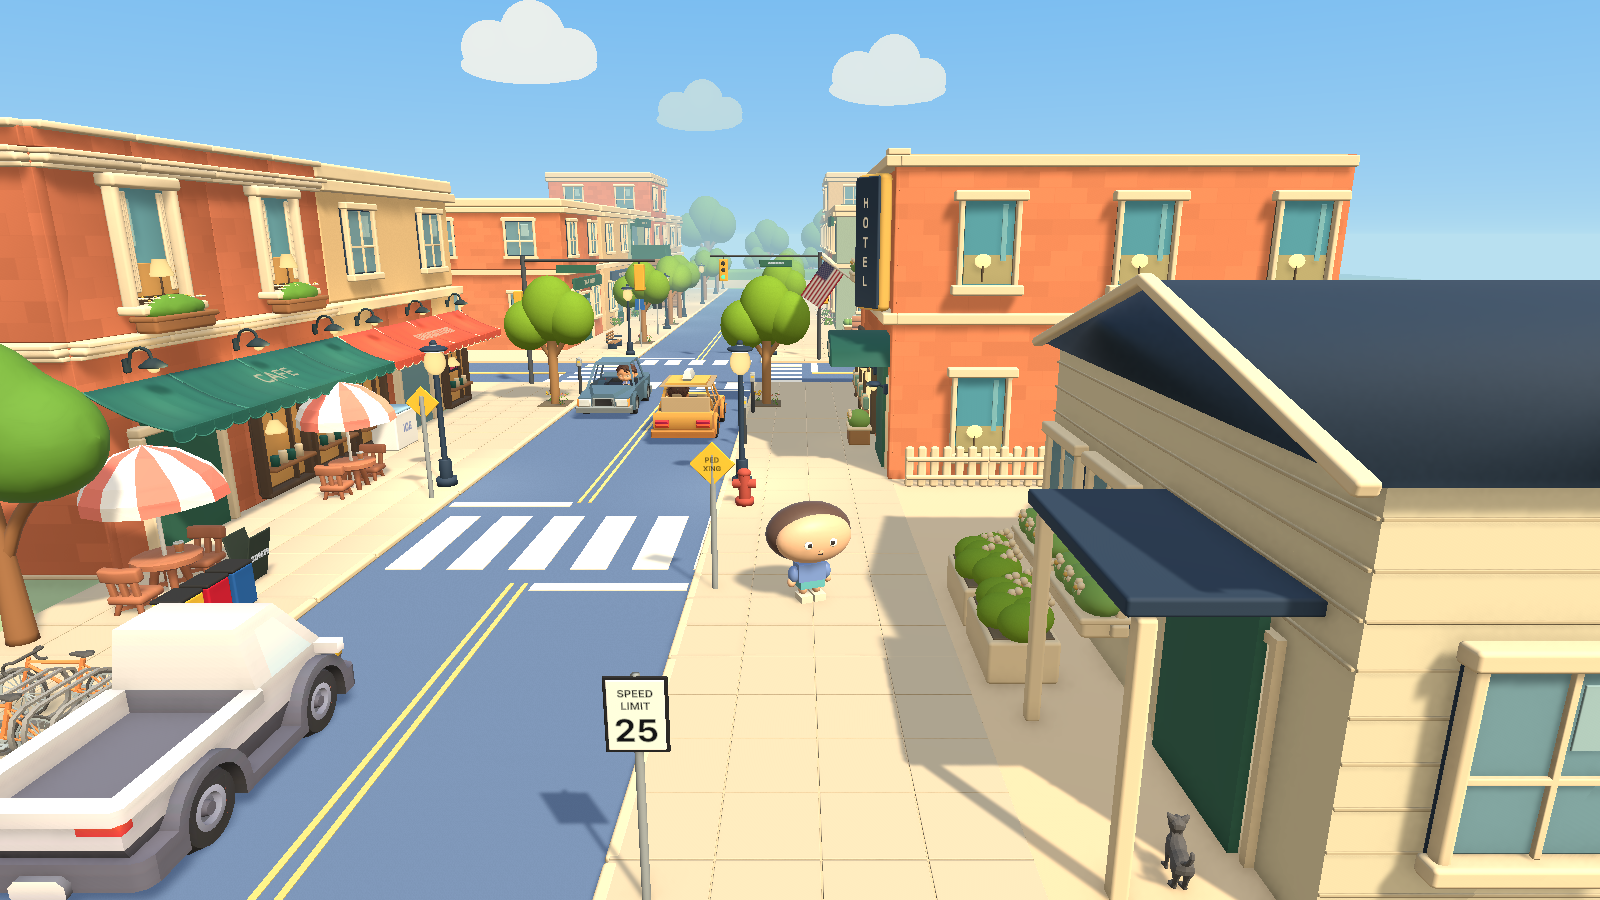
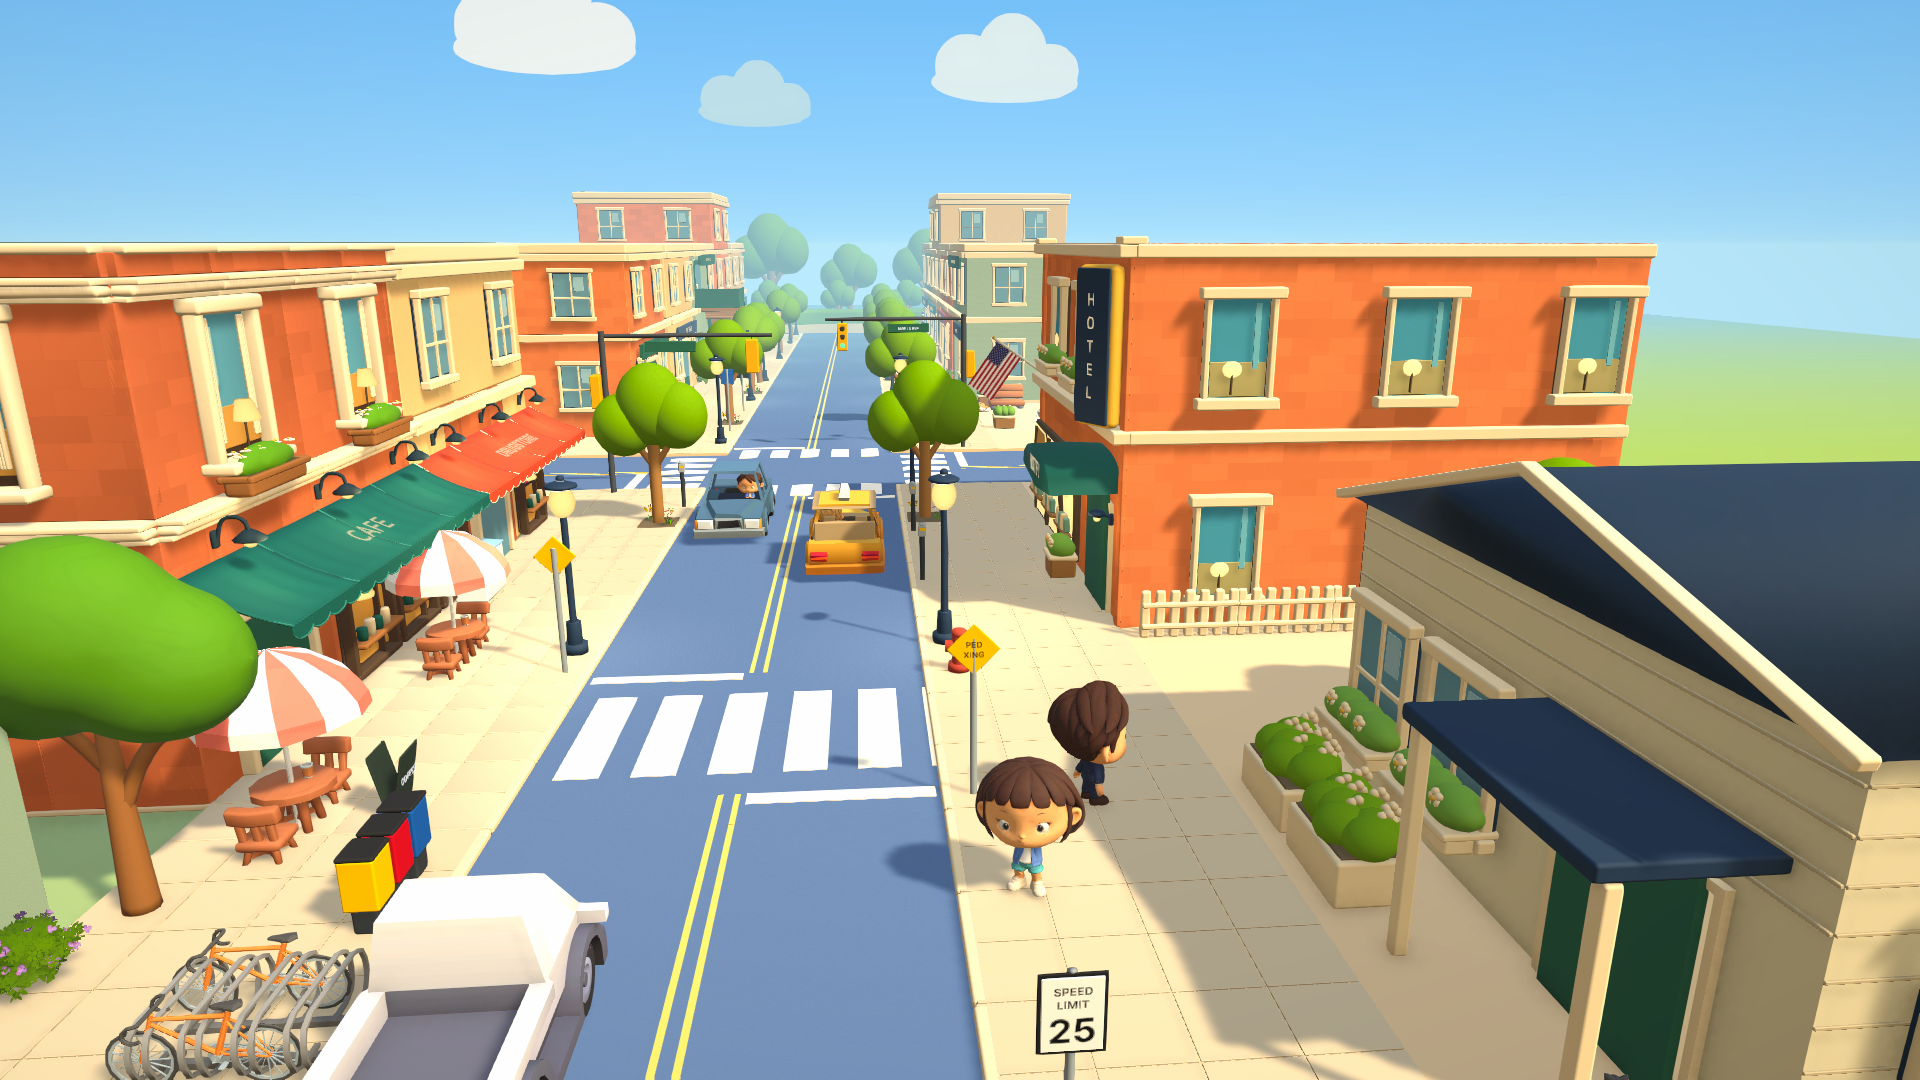
feat(frontend): 로그인 배경을 지금 마을에서 낮 11시로 다시 찍는 도구를 두고, 밤낮·거리 직원이 들어간 마을로 배경 바꾸기 [S15P31A305-528]

diff --git a/frontend/UnityClient/Assets/Scripts/Editor/Onboarding/LoginTownCapture.cs b/frontend/UnityClient/Assets/Scripts/Editor/Onboarding/LoginTownCapture.cs
@@ -1,0 +1,92 @@
+using System.IO;
+using A305.Weather;
+using UnityEditor;
+using UnityEditor.SceneManagement;
+using UnityEngine;
+
+namespace A305.EditorTools.Onboarding
+{
+    /// <summary>
+    /// 로그인 메인의 마을 배경(Art/UI/Login/LoginTown.png)을 지금 마을(TownScene)에서 다시 찍는다. 마을 모습이 바뀌면 다시 실행한다.
+    /// 남쪽 나무 바로 앞 높은 곳에서 큰길을 북쪽으로 내려다보고, 플레이어를 행인 옆에 카메라 쪽으로 돌려 세운다.
+    /// 찍은 뒤 마을 씬은 저장하지 않고, 찍기 전에 열려 있던 씬으로 되돌린다.
+    /// </summary>
+    public static class LoginTownCapture
+    {
+        private const string MenuPath = "Tools/A305/Onboarding/Capture Login Town";
+        private const string ScenePath = "Assets/Scenes/Production/TownScene.unity";
+        private const string OutputPath = "Assets/Art/UI/Login/LoginTown.png";
+        private const int Width = 1920;
+        private const int Height = 1080;
+
+        // 왼쪽 열은 크림색이 덮으므로 오른쪽에 호텔·집·하늘이 오게 큰길을 살짝 오른쪽으로 본다.
+        private static readonly Vector3 CameraPosition = new Vector3(2f, 7.5f, -27.5f);
+        private static readonly Vector3 CameraAngles = new Vector3(15f, 5f, 0f);
+        private const float FieldOfView = 52f;
+
+        // 화면 비율이 바뀌어 위아래가 잘려도 보이도록 플레이어를 화면 가운데 아래에 둔다.
+        private static readonly Vector3 PlayerPosition = new Vector3(3.8f, 0.12f, -16f);
+        private const float PlayerYaw = 200f;
+
+        // 낮 11시
+        private const double DaytimeMinutes = 11 * 60;
+
+        [MenuItem(MenuPath)]
+        public static void Capture()
+        {
+            if (!EditorSceneManager.SaveCurrentModifiedScenesIfUserWantsTo())
+                return;
+            var previousScenes = EditorSceneManager.GetSceneManagerSetup();
+            EditorSceneManager.OpenScene(ScenePath);
+            try
+            {
+                Pose();
+                File.WriteAllBytes(OutputPath, Render());
+            }
+            finally
+            {
+                if (previousScenes.Length > 0)
+                    EditorSceneManager.RestoreSceneManagerSetup(previousScenes);
+                else
+                    EditorSceneManager.OpenScene(ScenePath);
+            }
+            AssetDatabase.ImportAsset(OutputPath);
+            Debug.Log($"로그인 배경을 다시 찍었습니다: {OutputPath}");
+        }
+
+        private static void Pose()
+        {
+            GameObject player = GameObject.Find("Characters/Player");
+            if (player != null)
+                player.transform.SetPositionAndRotation(
+                    PlayerPosition,
+                    Quaternion.Euler(0, PlayerYaw, 0)
+                );
+            foreach (
+                var daylight in Object.FindObjectsByType<DaylightView>(FindObjectsSortMode.None)
+            )
+                daylight.ShowTime(DaytimeMinutes);
+        }
+
+        private static byte[] Render()
+        {
+            Camera camera = Camera.main;
+            camera.transform.SetPositionAndRotation(CameraPosition, Quaternion.Euler(CameraAngles));
+            camera.fieldOfView = FieldOfView;
+            var target = new RenderTexture(Width, Height, 24, RenderTextureFormat.ARGB32)
+            {
+                antiAliasing = 8,
+            };
+            camera.targetTexture = target;
+            camera.Render();
+            RenderTexture.active = target;
+            var picture = new Texture2D(Width, Height, TextureFormat.RGB24, false);
+            picture.ReadPixels(new Rect(0, 0, Width, Height), 0, 0);
+            picture.Apply();
+            RenderTexture.active = null;
+            camera.targetTexture = null;
+            Object.DestroyImmediate(target);
+            return picture.EncodeToPNG();
+        }
+    }
+}
